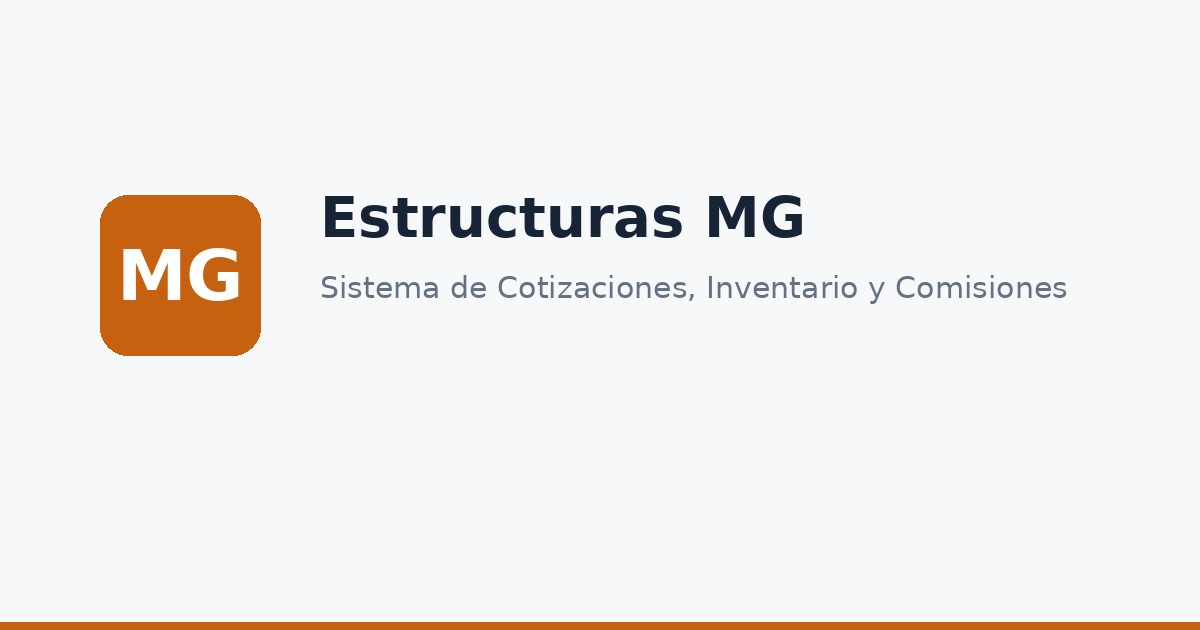
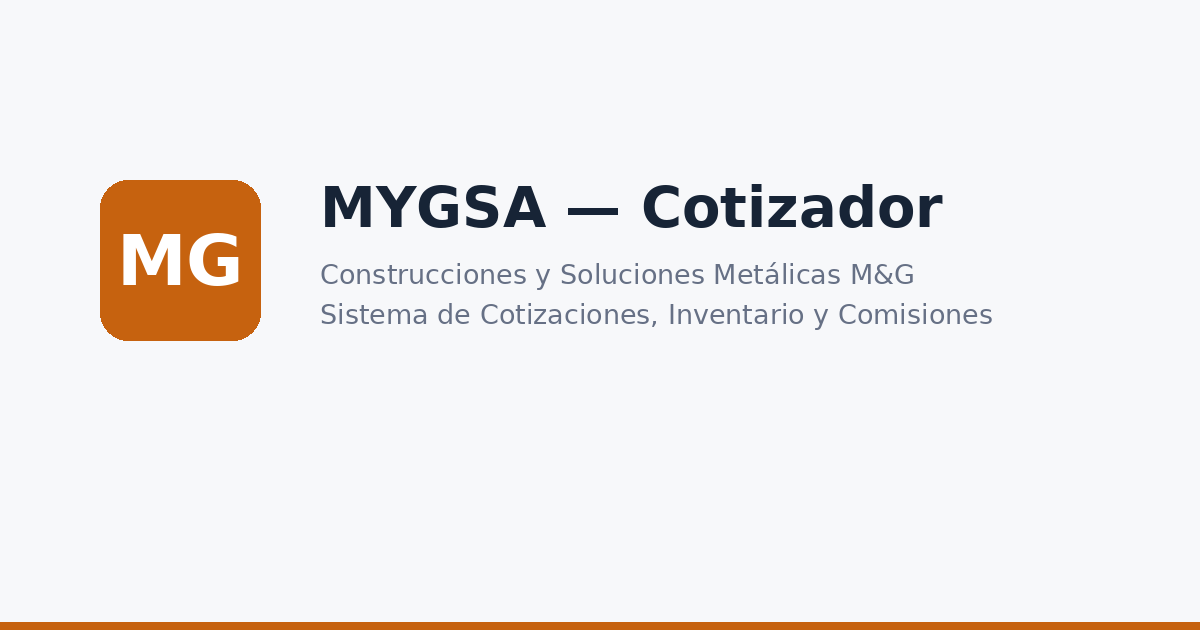
Add files via upload

diff --git a/src/app/layout.tsx b/src/app/layout.tsx
@@ -24,15 +24,15 @@ const SITE_URL = process.env.NEXT_PUBLIC_SITE_URL || 'https://mygsa-cotizador.ve
 export const metadata: Metadata = {
   metadataBase: new URL(SITE_URL),
   title: process.env.NEXT_PUBLIC_APP_NAME || 'MYGSA · Cotizador',
-  description: 'Sistema de cotizaciones, inventario y comisiones — Estructuras MG',
+  description: 'Construcciones y Soluciones Metálicas M&G — Sistema de Cotizaciones, Inventario y Comisiones',
   appleWebApp: {
-    title: 'MG Cotizador',
+    title: 'MYGSA',
     statusBarStyle: 'default',
   },
   openGraph: {
-    title: 'Estructuras MG — Cotizador',
-    description: 'Sistema de Cotizaciones, Inventario y Comisiones',
-    siteName: 'Estructuras MG',
+    title: 'MYGSA — Cotizador',
+    description: 'Construcciones y Soluciones Metálicas M&G · Sistema de Cotizaciones, Inventario y Comisiones',
+    siteName: 'MYGSA',
     locale: 'es_GT',
     type: 'website',
   },

diff --git a/src/app/manifest.ts b/src/app/manifest.ts
@@ -6,9 +6,9 @@ import type { MetadataRoute } from 'next';
 // el /manifest.webmanifest correspondiente, sin necesidad de enlazarlo a mano en <head>.
 export default function manifest(): MetadataRoute.Manifest {
   return {
-    name: 'Estructuras MG — Cotizador',
-    short_name: 'MG Cotizador',
-    description: 'Sistema de Cotizaciones, Inventario y Comisiones — Estructuras MG',
+    name: 'MYGSA — Cotizador',
+    short_name: 'MYGSA',
+    description: 'Construcciones y Soluciones Metálicas M&G — Sistema de Cotizaciones, Inventario y Comisiones',
     start_url: '/dashboard',
     display: 'standalone',
     background_color: '#F7F8FA',
